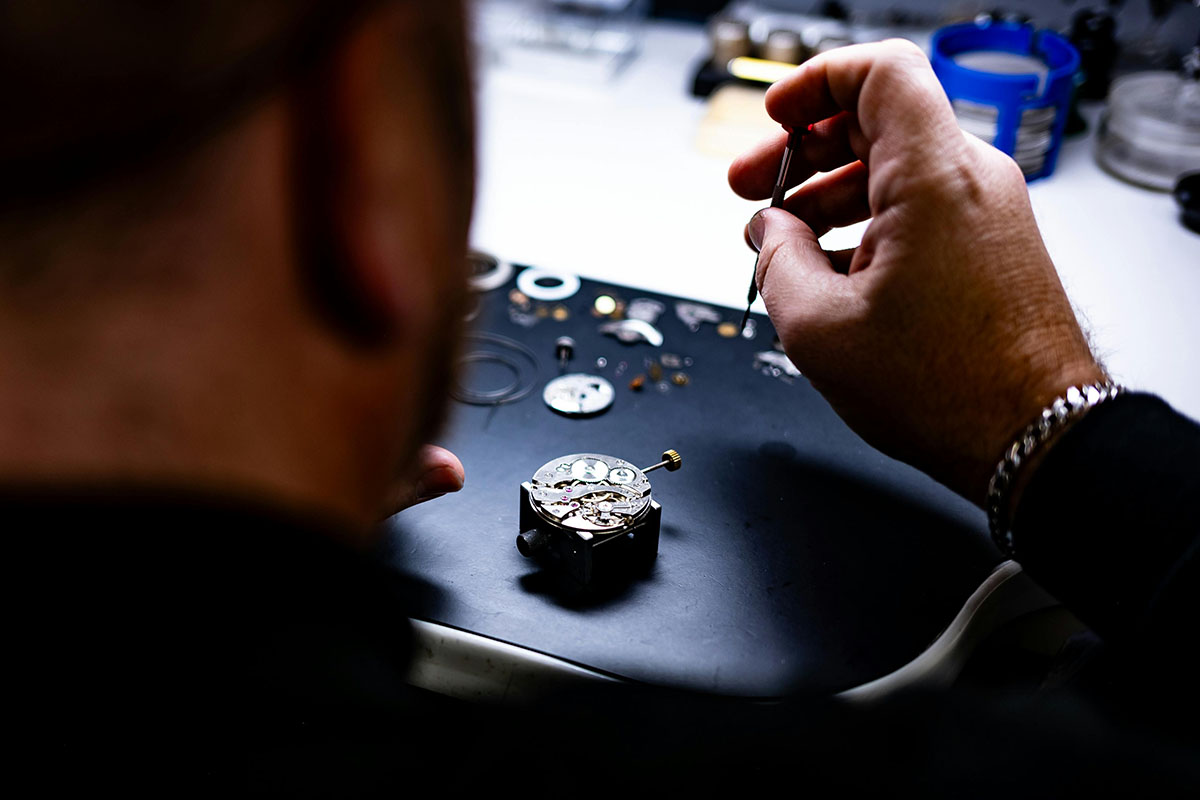
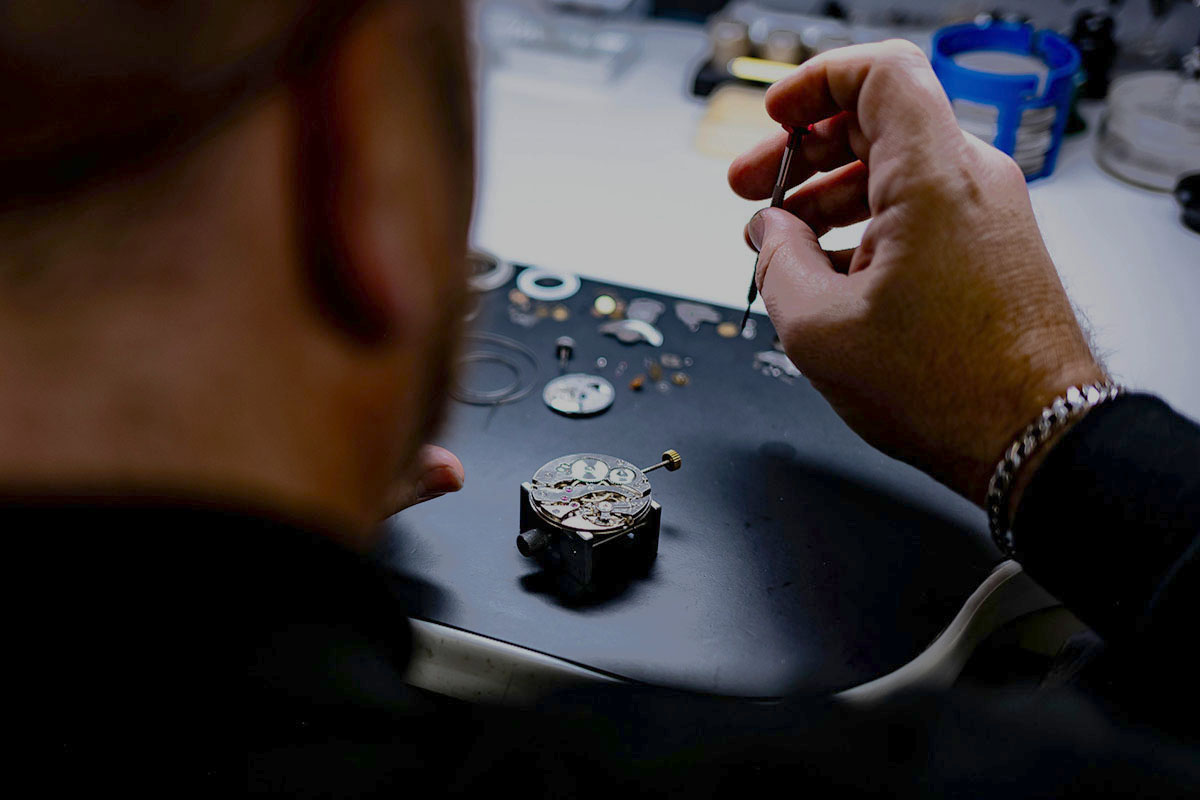
updates images

diff --git a/brands.html b/brands.html
@@ -102,7 +102,7 @@
                         <img src="images/craft/pexels-teona-swift-6851267.jpg" class="tile-image">
                     </div>
                     <div class="image-tile">
-                        <img src="images/craft/pexels-tima-miroshnichenko-6766235.jpg" class="tile-image">
+                        <img src="images/craft/pexels-ekrulila-3084332.jpg" class="tile-image">
                     </div>
                     <div class="image-tile">
                         <img src="images/craft/pexels-ron-lach-9849930.jpg" class="tile-image">

diff --git a/styles.css b/styles.css
@@ -659,10 +659,29 @@ section {
     height: 100%;
     object-fit: cover;
     transition: transform 0.3s ease;
+    filter: grayscale(100%);
+}
+
+.image-tile::after {
+    content: '';
+    position: absolute;
+    top: 0;
+    left: 0;
+    right: 0;
+    bottom: 0;
+    background: var(--primary-dark);
+    opacity: 0.6;
+    transition: opacity 0.3s ease;
+    pointer-events: none;
 }
 
 .image-tile:hover .tile-image {
     transform: scale(1.05);
+    filter: grayscale(0%);
+}
+
+.image-tile:hover::after {
+    opacity: 0;
 }
 
 .criteria-description {
